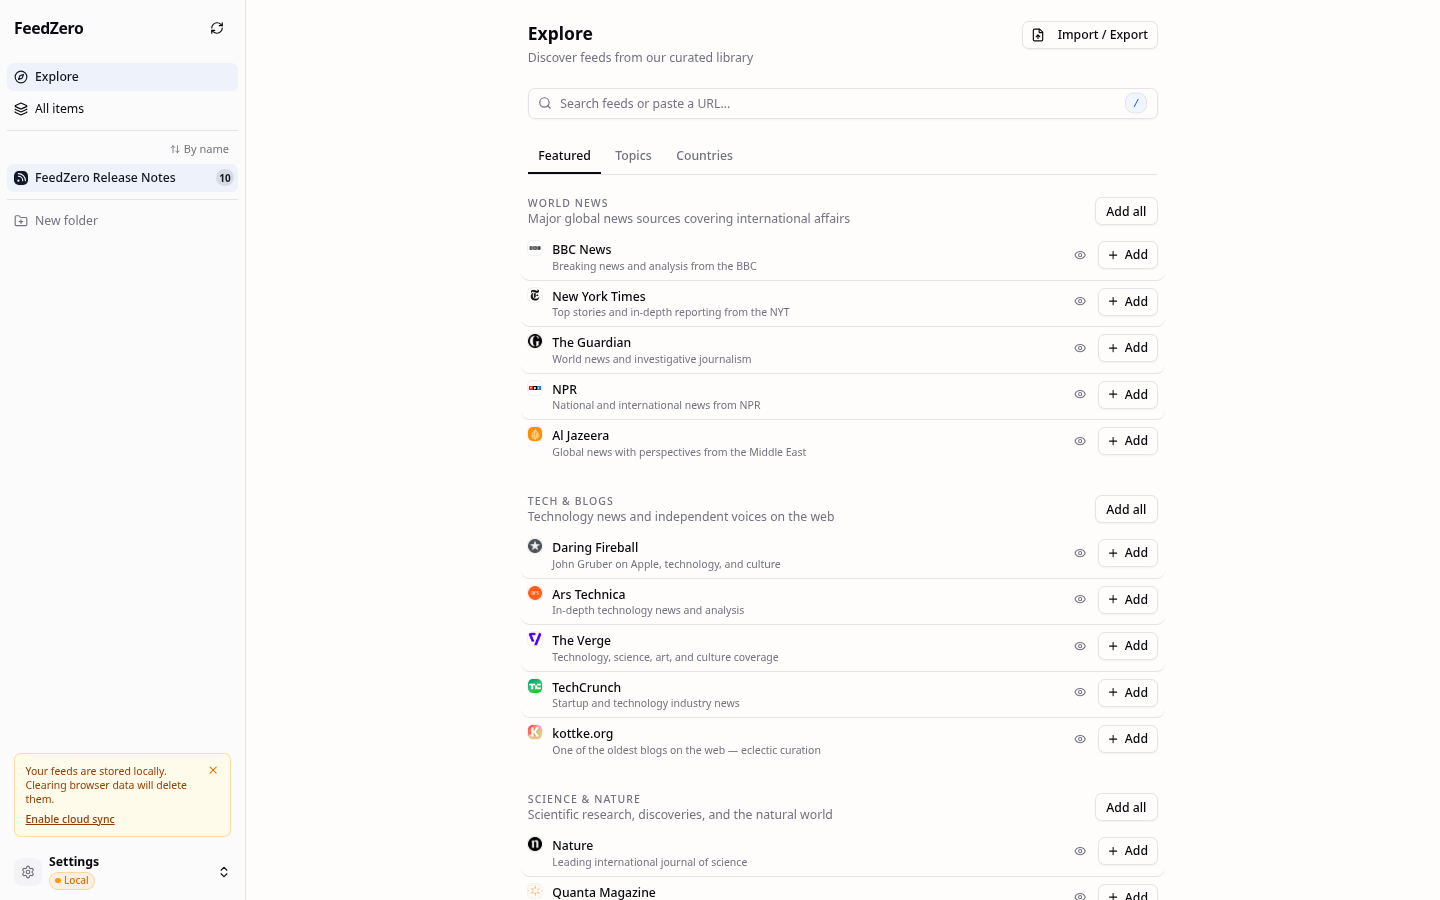
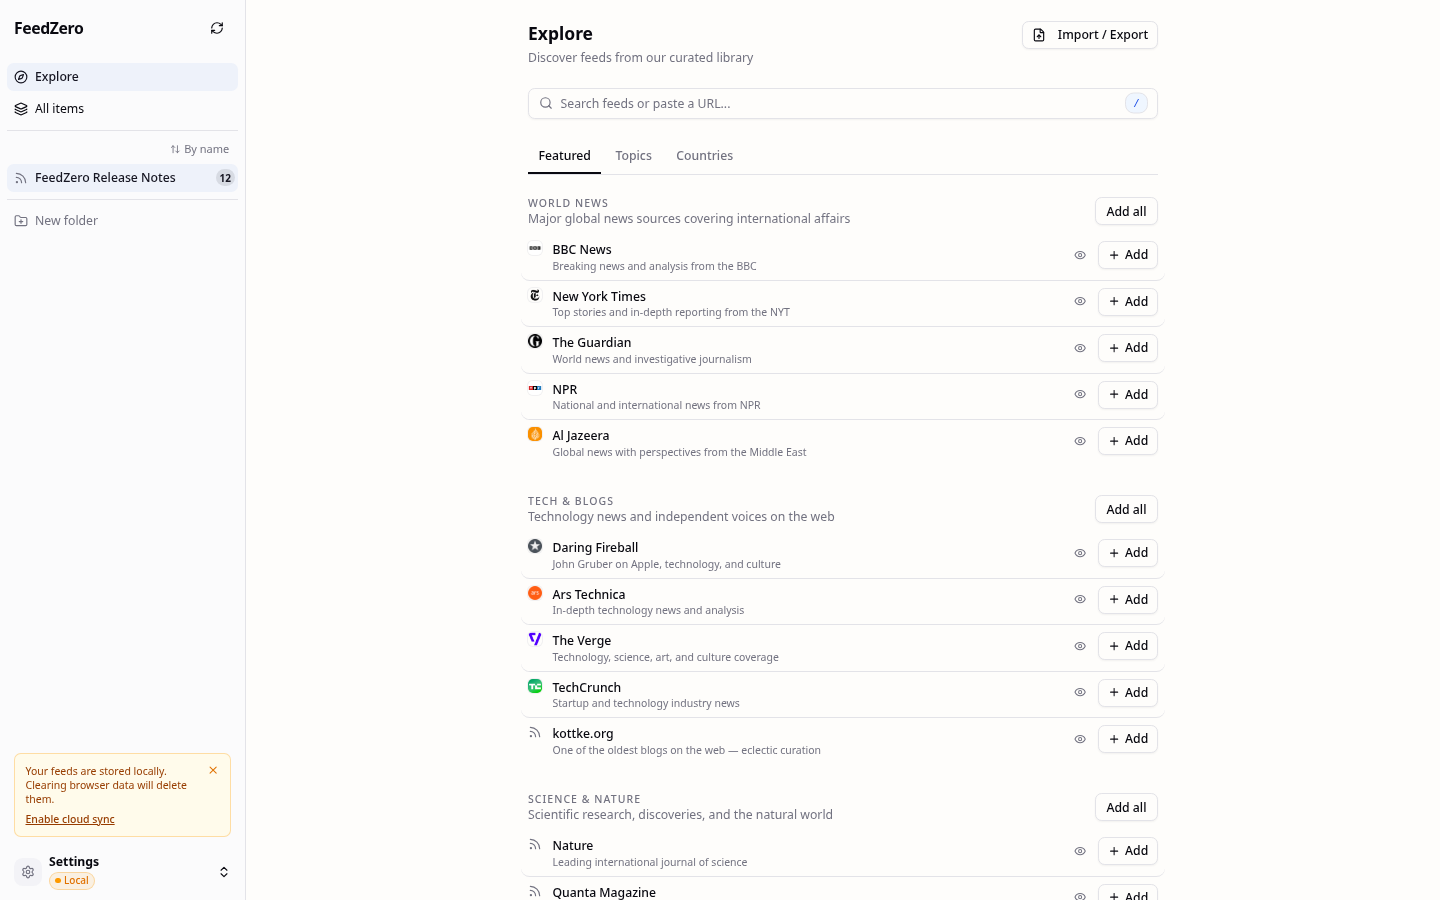
release: v0.8.2 — article flood grouping, cloud restore, and sync race fix

diff --git a/index.html b/index.html
@@ -42,7 +42,7 @@
       "offers": { "@type": "Offer", "price": "0", "priceCurrency": "USD" },
       "description": "A free, open source RSS reader that runs in your browser. Reads RSS, Atom, and JSON Feed. Optional end-to-end encrypted sync.",
       "screenshot": "https://feedzero.app/screenshot.png",
-      "softwareVersion": "0.8.1",
+      "softwareVersion": "0.8.2",
       "author": { "@type": "Person", "name": "Arjun Muralidharan" },
       "license": "https://github.com/forcingfx/feedzero/blob/main/LICENSE",
       "downloadUrl": "https://my.feedzero.app",
@@ -717,7 +717,7 @@
             FeedZero is a feed reader that runs in your browser. There is no account to create — you open it and start reading. There are no third-party trackers, no ads, and no data sold to anyone. Everything is stored on your device, encrypted. If you want to read on multiple devices, cloud sync is free and anonymous: a short passphrase is all you need, and the server cannot see your data.
         </p>
         <p>
-            It is built to be fast. Feeds are cached in memory, keyboard shortcuts cover every action, and there are no loading screens between articles. Free, open source (MIT license), currently in alpha (v<!-- LATEST_VERSION -->0.8.1<!-- /LATEST_VERSION -->).
+            It is built to be fast. Feeds are cached in memory, keyboard shortcuts cover every action, and there are no loading screens between articles. Free, open source (MIT license), currently in alpha (v<!-- LATEST_VERSION -->0.8.2<!-- /LATEST_VERSION -->).
         </p>
     </section>
 
@@ -943,7 +943,32 @@
         <div class="release-accordion">
 <!-- RELEASE_NOTES_START -->
 <!-- Content generated by build-releases.mjs from releases.mjs. Do not edit by hand. -->
-            <details id="v0.8.1" open>
+            <details id="v0.8.2" open>
+                <summary>
+                    <span class="version">v0.8.2</span>
+                    <span class="rel-title">Article flood grouping, cloud restore, and sync race fix</span>
+                    <time class="rel-date" datetime="2026-05-15T12:00:00Z">May 15, 2026</time>
+                </summary>
+                <div class="release-body">
+                    <p class="release-sub">Flooding feeds no longer drown out everything else in aggregated views, a Restore-from-cloud button recovers from drifted local state, and a cross-device sync race that left Device B with the wrong feed list is fixed.</p>
+                <section class="changes">
+                    <h3>Added</h3>
+                    <ul>
+                        <li>Added inline grouping for same-feed article floods in aggregated views (All items and folder views). Runs of three or more consecutive articles from the same feed within ten-minute pairwise gaps collapse to a summary row with a chevron; expanding inline reveals the full list. Disabled in per-feed views and behind a Settings toggle if undesired.</li>
+                        <li>Added a <code>Restore from cloud</code> button to the Data &amp; Storage dialog. Replaces local feeds and articles with the cloud vault without deleting and recreating the vault, which is the recovery path when a device's local state drifts from what the cloud knows.</li>
+                    </ul>
+                </section>
+                <section class="changes">
+                    <h3>Fixed</h3>
+                    <ul>
+                        <li>Fixed a cross-device sync race where a second device could mark its status as synced without the cloud feeds materializing locally. Concurrent pulls now share a single in-flight request and the import is transactional, so the article list never serves a half-imported state.</li>
+                        <li>Fixed the prev/next reader navigation pills appearing on desktop, where they duplicated existing keyboard shortcuts and sidebar navigation. The pills remain on mobile, where the touch surface is needed.</li>
+                        <li>Fixed dialog buttons being pushed off-screen on iOS when the soft keyboard opens. Dialogs are now anchored to the dynamic viewport height so the action row stays reachable regardless of keyboard state.</li>
+                    </ul>
+                </section>
+                </div>
+            </details>
+            <details id="v0.8.1">
                 <summary>
                     <span class="version">v0.8.1</span>
                     <span class="rel-title">Server reliability, observability, and rate limiting</span>